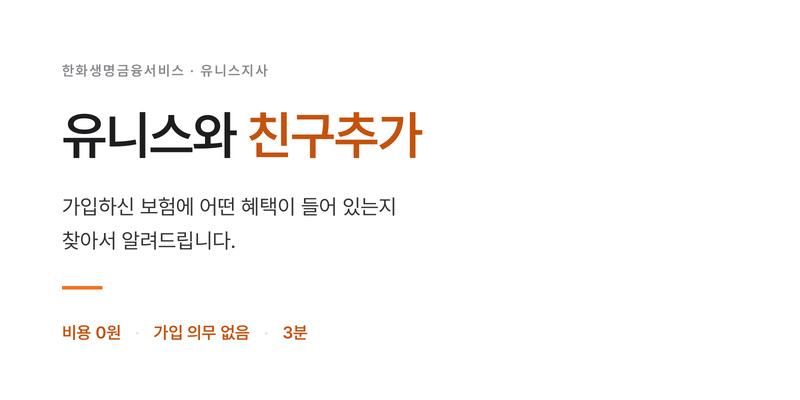
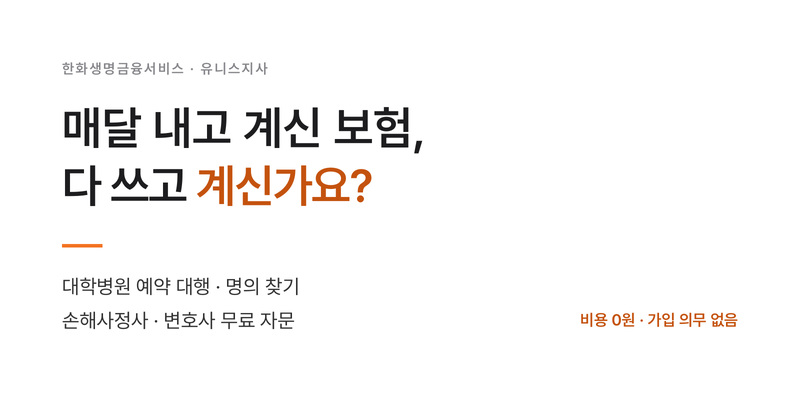
Add files via upload

diff --git a/unispace/healthcare.html b/unispace/healthcare.html
@@ -9,7 +9,7 @@
 
 <meta property="og:type" content="website">
 <meta property="og:title" content="유니스와 친구추가">
-<meta property="og:description" content="가입하신 보험에 어떤 혜택이 들어 있는지 찾아드립니다 · 비용 0원 · 가입 의무 없음">
+<meta property="og:description" content="대학병원 예약 대행 · 명의 찾기 · 손해사정사 무료 자문 · 비용 0원 · 가입 의무 없음">
 <meta property="og:url" content="https://unice-vip.co.kr/unispace/healthcare.html">
 <meta property="og:image" content="https://unice-vip.co.kr/unispace/healthcare_og.jpg">
 <meta property="og:image:width" content="800">
@@ -246,7 +246,7 @@ input,select,button{font-family:inherit;color:inherit}
       <input type="tel" id="fPhone" placeholder="010 0000 0000" inputmode="numeric" autocomplete="tel" maxlength="13">
     </div>
     <div class="fld">
-      <label>가입하신 보험사 (선택)</label>
+      <label>가입하신 보험사 (여러 개 선택 가능)</label>
       <div class="chips" id="insPicks"></div>
     </div>
     <div class="agree" id="agreeBox" onclick="toggleAgree()">
@@ -283,7 +283,7 @@ var MOCK = (GAS_URL.indexOf("script.google.com") < 0);
 var INSURERS = ["삼성생명","한화생명","교보생명","신한라이프","KB라이프",
                 "삼성화재","현대해상","DB손보","KB손보","메리츠화재","잘 모르겠어요"];
 
-var pickedIns = "";
+var pickedIns = [];
 var agreed = false;
 var sending = false;
 
@@ -307,16 +307,32 @@ function say(t, cls){
   m.className = cls ? ("msg " + cls) : "msg";
 }
 
+function hasIns(v){
+  for (var i=0;i<pickedIns.length;i++){ if (pickedIns[i] === v) return true; }
+  return false;
+}
 function renderIns(){
   var h = "";
   for (var i=0;i<INSURERS.length;i++){
-    h += '<button type="button" class="chip' + (pickedIns === INSURERS[i] ? " on" : "") +
+    h += '<button type="button" class="chip' + (hasIns(INSURERS[i]) ? " on" : "") +
          '" onclick="pickIns(' + i + ')">' + esc(INSURERS[i]) + '</button>';
   }
   $("insPicks").innerHTML = h;
 }
 function pickIns(i){
-  pickedIns = (pickedIns === INSURERS[i]) ? "" : INSURERS[i];
+  var v = INSURERS[i];
+  var last = INSURERS[INSURERS.length - 1];
+  var out = [];
+  if (hasIns(v)){
+    for (var k=0;k<pickedIns.length;k++){ if (pickedIns[k] !== v) out.push(pickedIns[k]); }
+    pickedIns = out;
+  } else if (v === last){
+    pickedIns = [v];
+  } else {
+    for (var m=0;m<pickedIns.length;m++){ if (pickedIns[m] !== last) out.push(pickedIns[m]); }
+    out.push(v);
+    pickedIns = out;
+  }
   renderIns();
 }
 function toggleAgree(){
@@ -353,7 +369,7 @@ function submitApply(){
 
   var params = {
     action:"webApply", custName:name, custPhone:phone,
-    insurer:pickedIns, agree:"1", pt:qp("pt"), fp:qp("fp")
+    insurer:pickedIns.join(","), agree:"1", pt:qp("pt"), fp:qp("fp")
   };
 
   if (MOCK){

diff --git a/unispace/index.html b/unispace/index.html
@@ -13939,7 +13939,7 @@ function openPartnersDeck(ev) {
 var HEALTHCARE_URL = 'https://unice-vip.co.kr/unispace/healthcare.html';
 var HEALTHCARE_CARD = {
   title: '유니스와 친구추가',
-  desc:  '가입하신 보험에 어떤 혜택이 들어 있는지 찾아드립니다. 비용 0원 · 가입 의무 없음.',
+  desc:  '대학병원 예약 대행 · 명의 찾기 · 손해사정사 무료 자문. 비용 0원 · 가입 의무 없음.',
   btn:   '유니스와 친구추가',
   img:   'https://unice-vip.co.kr/unispace/healthcare_og.jpg'
 };
